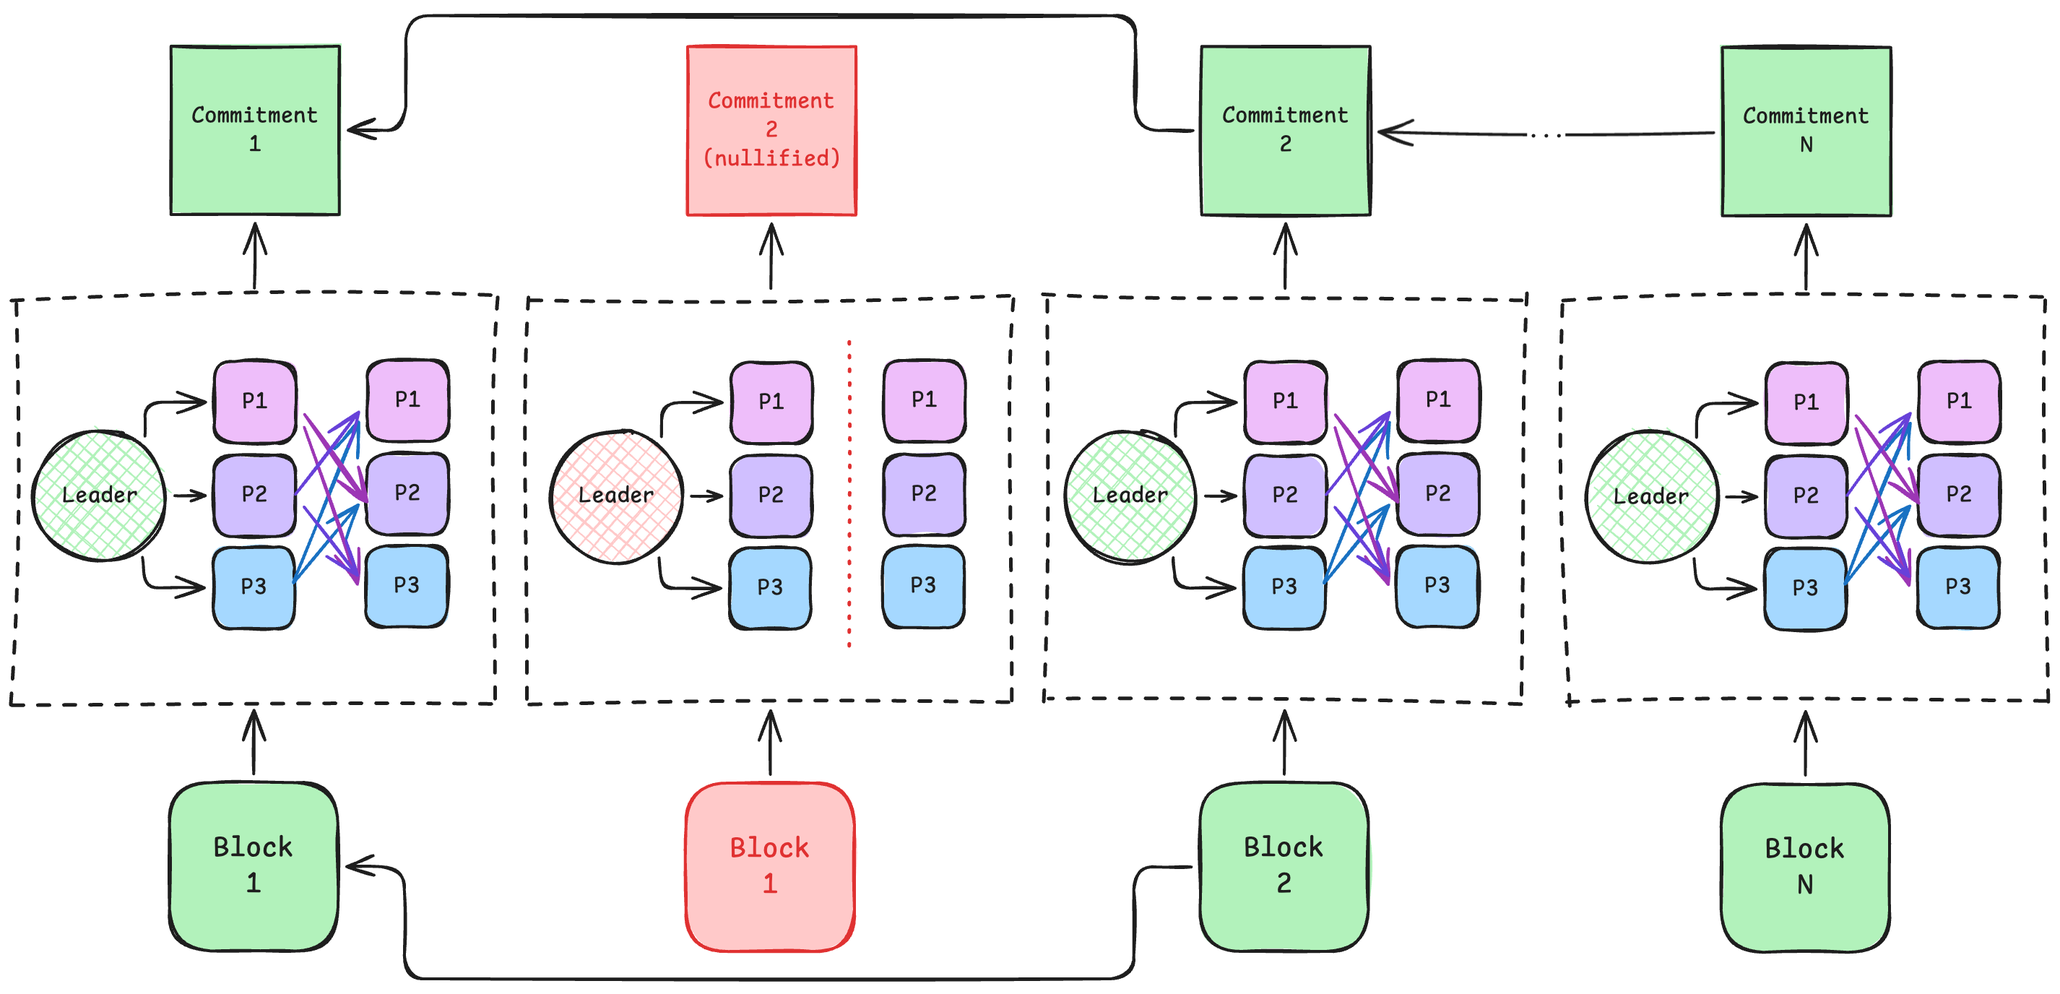
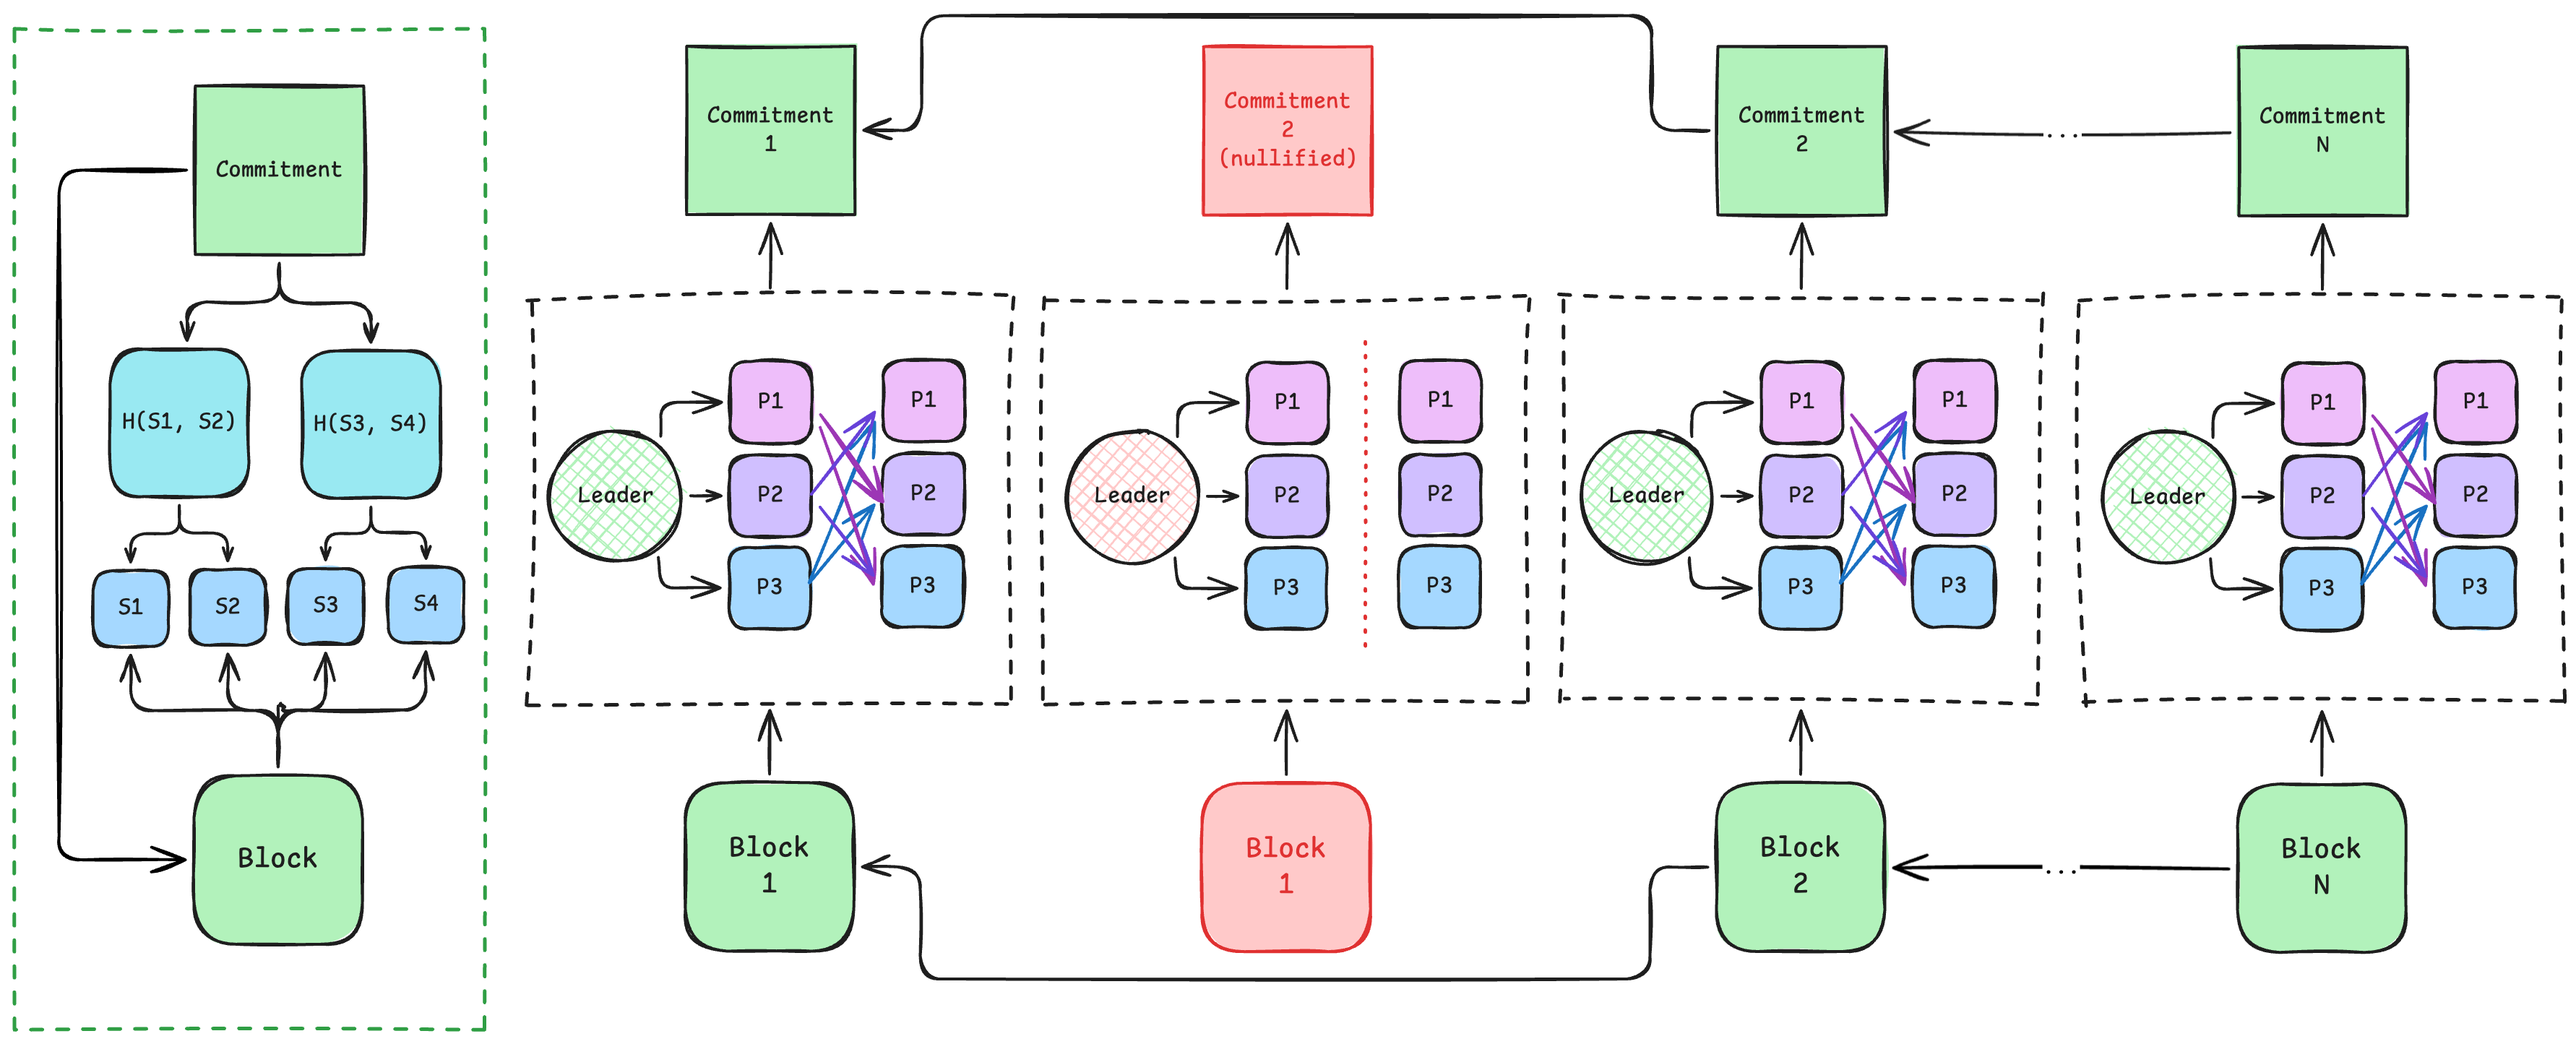
s/o DispersedSimplex

diff --git a/docs/blogs/coding.html b/docs/blogs/coding.html
@@ -90,7 +90,7 @@
 
         <h2>Certification: A Second Decision Point</h2>
 
-        <p>The foundation of this integration is a new phase in a view's progression to finalization: "certification". In Simplex, notarization and finalization are intentionally split, and <code>certify</code> sits in between as a local, deterministic second decision point.</p>
+        <p>The foundation of this integration is a new phase in a view's progression to finalization within simplex. "Certification" offers a local, deterministic method to nullify a view after voting on partial information. For a more formal treatment of this idea, refer to <a href="https://eprint.iacr.org/2023/1916.pdf"><i>Sing a song of Simplex</i></a> by Victor Shoupe.</p>
 
         <p>A notarization proves that a quorum observed the same proposal. It does not force replicas to keep going down that path. After notarization forms, the network can still change course if new information shows up locally.</p>
 
@@ -105,11 +105,11 @@
 
         <h2>Why This Matters for Coding</h2>
 
-        <p>In the coding path, this boundary becomes a latency lever. Validators verify proposal invariants and shard validity against the erasure-coding commitment, then vote to notarize without waiting for full block reconstruction.</p>
-
-        <p>After notarization forms, <code>certify</code> is where we resolve new information: reconstruct the block, check ancestry and epoch invariants, and run full application verification. If reconstruction fails or the reconstructed blob is invalid, certification fails and the view is nullified cleanly - no bad blocks end up in the finalized chain.</p>
+        <p>In the coding path, this boundary becomes a latency lever. The proposer first erasure-encodes their block and commits to all shards to form a consensus payload (the <b>commitment</b>). Then, they disperse both a shard as well as an inclusion proof to the validators (a method described in <a href="https://www.usenix.org/system/files/nsdi22-paper-yang_lei.pdf"><i>Dispersed Ledger</i></a> by Lei Yang, Seo Jin Park, and Mohammad Alizadeh). Upon receipt, validators verify proposal invariants and shard validity against the erasure-coding commitment, then relay their shard and vote to notarize without waiting for full block reconstruction.</p>
 
         <p>This is where we differ from other three-round protocols that employ erasure coded broadcast such as MonadBFT and Alpenglow: those designs wait for full block recovery before voting. We move that wait to certification, after notarization, resulting in a lower view latency with a hard safety gate before finalization.</p>
+
+        <p>After notarization forms, <code>certify</code> is where we resolve new information: reconstruct the block, check ancestry and epoch invariants, and run full application verification. If reconstruction fails or the reconstructed blob is invalid, certification fails and the view is nullified cleanly - no bad blocks end up in the finalized chain.</p>
 
         <div class="image-container">
             <img src="../imgs/coding_chain.png" alt="Erasure Coded Block dissemination and chain diagram" />
@@ -128,7 +128,7 @@
 
         <h2>Alto Benchmarks</h2>
 
-        <p>For global <a href="https://alto.commonware.xyz">alto</a> benchmarks, we deploy 50 validators uniformly across <code>ap-northeast-1</code>, <code>ap-nor theast-2</code>, <code>ap-south-1</code>, <code>ap-southeast-2</code>, <code>eu- central-1</code>, <code>eu-north-1</code>, <code>eu-west-1</code>, <code>sa-east -1</code>, <code>us-east-1</code>, and <code>us-west-1</code>. Each validator ru ns on a <code>c8g.2xlarge</code> instance.</p>
+        <p>For global <a href="https://alto.commonware.xyz">alto</a> benchmarks, we deploy 50 validators uniformly across <code>ap-northeast-1</code>, <code>ap-nor theast-2</code>, <code>ap-south-1</code>, <code>ap-southeast-2</code>, <code>eu- central-1</code>, <code>eu-north-1</code>, <code>eu-west-1</code>, <code>sa-east -1</code>, <code>us-east-1</code>, and <code>us-west-1</code>. Each validator runs on a <code>c8g.2xlarge</code> instance.</p>
 
         <div class="image-container">
             <img src="../imgs/alto_coding.png" alt="Alto coding benchmarks" />
@@ -137,7 +137,7 @@
 
         <h2>What Comes Next</h2>
 
-        <p>Delivering blocks in pieces is one part of a larger roadmap toward faster, safer, and more composable consensus deployments.</p>
+        <p>Delivering blocks in pieces is one part of a larger roadmap toward faster, safer, and more composable consensus deployments. <code><a href="https://github.com/commonwarexyz/monorepo/blob/main/consensus/src/marshal/coding/mod.rs">marshal::coding</a></code> is now <a href="https://commonware.xyz/blogs/is-it-ready-yet">in ALPHA</a>, and will be included in the upcoming release.</p>
 
         <p><i>commonware-constantinople is coming soon.</i></p>
     </div>
